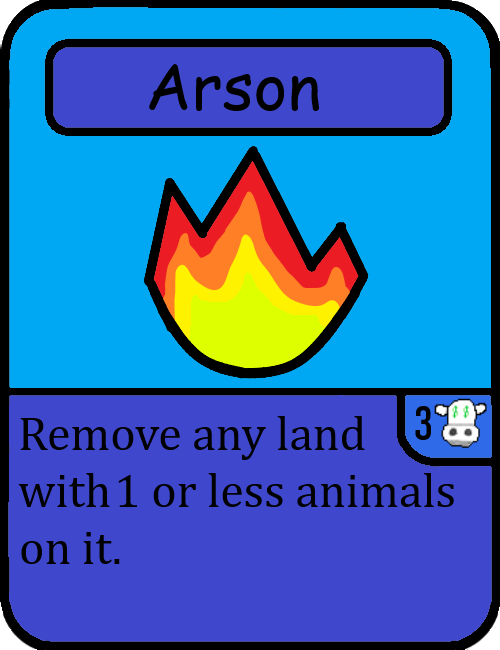
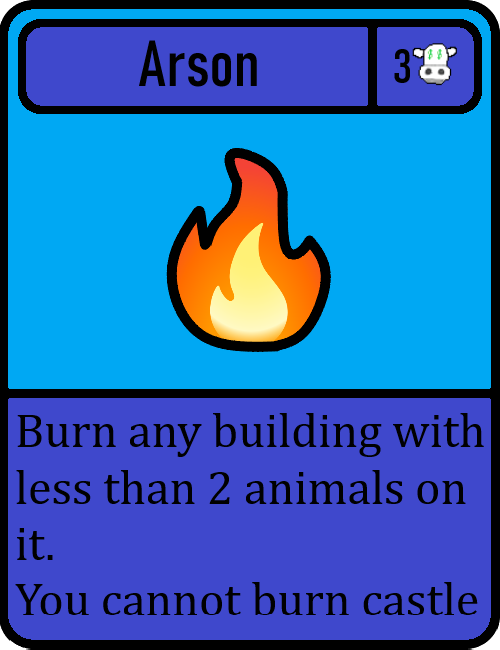
remade every single card ever its pretty great art! i think maybe also fixed the readme and added a trello board for future advancements and stuff

diff --git a/cows.py b/cows.py
@@ -5,7 +5,7 @@ from numpy import clip as clamp, log2
 from math import sqrt
 # noinspection PyUnresolvedReferences
 from pygamepopups import update_popups, handle_popup_events, RightClickMenu, RightClickOption, \
-    RightClickAbility, get_pause_menu
+    RightClickAbility, get_pause_menu, set_rcm_width
 from effects import CurrencyParticle, CircleParticle, play_sound_path, FakeCard
 from constants import *
 # noinspection PyUnresolvedReferences
@@ -77,7 +77,7 @@ class Hand:
             in_anim_sum = sum([cserp(self.in_anim.get(id(in_card), 0)) for in_card in self.cards])
             log_part = 1
             if not in_anim_sum == 0:
-                log_part = log2(in_anim_sum+1)
+                log_part = clamp(log2(in_anim_sum+1), 1, 18923)
             if log_part == 0:
                 log_part = 1
             x = surface.get_width()/2  # start at center
@@ -241,7 +241,6 @@ class Player:
         money_rectangle = pygame.Rect(player_info_rect.left, player_info_rect.top, box_width, box_height)
         pygame.draw.rect(surface, (0, 0, 0), expand_rect(money_rectangle, 4), border_radius=border_rounding)
         money_surf = pygame.Surface(money_rectangle.size)
-        money_surf.set_alpha(127)
         money_surf.fill((94, 252, 141))
         surface.blit(money_surf, money_rectangle.topleft)
 
@@ -255,7 +254,6 @@ class Player:
         milk_rectangle = pygame.Rect(player_info_rect.left+40+spacing_x, player_info_rect.top, box_width, box_height)
         pygame.draw.rect(surface, (0, 0, 0), expand_rect(milk_rectangle, 4), border_radius=border_rounding)
         milk_surf = pygame.Surface(milk_rectangle.size)
-        milk_surf.set_alpha(127)
         milk_surf.fill((163, 247, 255))
         surface.blit(milk_surf, milk_rectangle.topleft)
 
@@ -268,7 +266,6 @@ class Player:
         hay_rectangle = pygame.Rect(player_info_rect.left+(40+spacing_x)*2, player_info_rect.top, box_width, box_height)
         pygame.draw.rect(surface, (0, 0, 0), expand_rect(hay_rectangle, 4), border_radius=border_rounding)
         hay_surf = pygame.Surface(hay_rectangle.size)
-        hay_surf.set_alpha(127)
         hay_surf.fill((245, 230, 99))
         surface.blit(hay_surf, hay_rectangle.topleft)
 
@@ -289,6 +286,9 @@ class Player:
         new_coll = get_pause_menu().land_scrape_accuracy.selected_option
         if land_collision_accuracy != new_coll:
             set_land_coll_acc(new_coll)
+
+        # set the rcm width
+        set_rcm_width(get_pause_menu().rcm_width.selected_option)
 
         # hover cards in fake cards
         hand_card_image_name = None
@@ -354,10 +354,20 @@ class Player:
 
                 return newthing
 
-            # draw inhabitants (e.g. "+ Greenest Grass")
+            # add animal inhabitants
+            on_land: list[int] = []
+            if card_hover in self.field.cards:
+                for card_inhab in card_hover.get_residents():
+                    inhabitants.append(card_inhab)
+                    on_land.append(id(card_inhab))
+
+            # do inhabitants and equipments (naming is scuffed)
             if len(inhabitants) > 0:
                 for inhab_count, card_inhab in enumerate(inhabitants):
-                    card_type_text = fetch_text(f"+ {class_to_string(card_inhab)}", font)
+                    if id(card_inhab) in on_land:
+                        card_type_text = fetch_text(f"{class_to_string(card_inhab)} lives here", font)
+                    else:
+                        card_type_text = fetch_text(f"+ {class_to_string(card_inhab)}", font)
                     surface.blit(card_type_text,
                                  card_type_text.get_rect(
                                      midtop=_move_pos(hover_rect.midbottom, (0, 30*inhab_count+10))))
@@ -461,6 +471,7 @@ class Player:
                             if not remove_currency_if_has(card_field.cost_currency, card_field.cost_amount):
                                 self.field.cards.remove(card_field)
                                 self.hand.cards.insert(self.index_of_grab, card_field)
+                                add_popup("You don't have enough money")
                                 return True
                             card_field.was_on_field = True
                             play_sound_path(join("sounds", "cardfold.mp3"), 0.4)
@@ -539,9 +550,17 @@ class Player:
         for card in self.field.cards:
             if card.type in (INCANTATION_TYPE, EQUIPMENT_TYPE):
                 add_popup("This needs to go on a card"*(card.type == EQUIPMENT_TYPE) +
-                          "How did this happen?????"*(card.type == INCANTATION_TYPE))
+                          "How tf you do that?????"*(card.type == INCANTATION_TYPE))
                 camera_to_card(card)
                 return True
+
+        # overcrowding on lands:
+        for card in [_ for _ in self.field.cards if _.type == LAND_TYPE and _.was_on_field]:
+            if card.max_capacity is not None:
+                if len(card.get_residents()) > card.max_capacity:
+                    camera_to_card(card)
+                    add_popup("Too many animals on this land!")
+                    return True
 
         # animals without a home
         not_homeless_cards = []
@@ -864,6 +883,10 @@ class Card:
         # other
         self.is_cow = False
 
+        # inhabitant shenanies
+        self.max_capacity = None
+        self.multipliers = {}  # (ex: {Card: 2, Pig: 3} means that all cards are buffed x2 total, pigs are buffed x6 total)
+
     def mod_x(self):
         return self.x-get_local_player().camera.x
 
@@ -920,13 +943,14 @@ class Card:
             card = self
         residents = []
         if card.type != LAND_TYPE:
-            return residents
+            return []
         if not player.field.cards.__contains__(card):
-            raise TypeError(f"Object of type {card.type} cannot have residents")
+            raise TypeError(f"Card not found")
         for card_try in player.field.cards:
             social_distance = distance((card.x+150, card.y+162), (card_try.x+150, card_try.y+162))
             if social_distance < 500:
-                residents.append(card_try)
+                if card_try.type == ANIMAL_TYPE:
+                    residents.append(card_try)
         if residents.__contains__(card):
             residents.remove(card)
         return residents
@@ -949,6 +973,7 @@ class Card:
         rect_of_self.h += card_LOD*len(self.equipped)
         if rect_h is not None:
             rect_of_self.h = rect_h
+
         if event.type == pygame.MOUSEBUTTONDOWN:
             if event.button == 1:
                 if rect_of_self.collidepoint(pygame.mouse.get_pos()):
@@ -962,32 +987,8 @@ class Card:
             self.selected = False
         if event.type == pygame.MOUSEMOTION:
             if self.selected:
-                if self.type != LAND_TYPE or rel == (0, 0):
-                    self.y += rel[1]
-                    self.x += rel[0]
-                else:
-                    other_lands = [card for card in get_local_player().field.cards if card.type == LAND_TYPE]
-                    other_lands.remove(self)
-                    centers = [(land.x+125, land.y+162) for land in other_lands]
-                    def pyth_theorem(pos1, pos2): return sqrt((pos1[0]-pos2[0])**2+(pos1[1]-pos2[1])**2)
-                    for _ in range(land_collision_accuracy):
-                        self.x += rel[0]/land_collision_accuracy
-                        for center in centers:
-                            self_center = (self.x+125, self.y+162)
-                            while pyth_theorem(center, self_center) < 1000:
-                                self.x -= rel[0]/10
-                                self_center = (self.x+125, self.y+162)
-                                if pyth_theorem(center, self_center) > 1000:
-                                    break
-                        self.y += rel[1]/land_collision_accuracy
-                        for center in centers:
-                            self_center = (self.x+125, self.y+162)
-                            while pyth_theorem(center, self_center) < 1000:
-                                self.y -= rel[1]/10
-                                self_center = (self.x+125, self.y+162)
-                                if pyth_theorem(center, self_center) > 1000:
-                                    break
-
+                self.x += rel[0]
+                self.y += rel[1]
         return False
 
     def __str__(self):
@@ -1000,6 +1001,7 @@ class Castle(Card):
     def __init__(self, pos: Union[list[int], tuple[int, int]] = (100, 100)):
         super().__init__(pos)
         self.type = LAND_TYPE
+        self.max_capacity = 3
         # cost is free
 
     def handle_action(self, action: int) -> Union[list[Action, DelayedAction, InputAction], None]:
@@ -1020,7 +1022,7 @@ class Arson(Card):
 
 
 class GreenestGrass(Card):
-    image = "greenestgrass.png"
+    image = "greenest_grass.png"
 
     def __init__(self, pos: Union[list[int], tuple[int, int]] = (100, 100)):
         super().__init__(pos)
@@ -1033,20 +1035,20 @@ class GreenestGrass(Card):
 
 
 class KingCow(Card):
-    image = "kingcow.png"
+    image = "king_cow.png"
 
     def __init__(self, pos: Union[list[int], tuple[int, int]] = (100, 100)):
         super().__init__(pos)
         self.type = ANIMAL_TYPE
         self.is_cow = True
         # notice how the cost is free
-        self.abilities = [Ability(Action(self, SELF_GIVE_MONEY, SELF_COWS_ON_FIELD), 1, HAY_COUNTER, "Tax the poor"),
-                          Ability(DelayedAction(self, SELF_GIVE_HAY, 1, SELF_TURN_START), 2, HAY_COUNTER,
-                                  "Bribe the king")]
+        self.abilities = [Ability(Action(self, SELF_GIVE_DAIRY, SELF_COWS_ON_FIELD), 1, HAY_COUNTER, "Milk the poor"),
+                          Ability(DelayedAction(self, SELF_GIVE_HAY, 2, SELF_TURN_START), 2, HAY_COUNTER,
+                                  "Invest in the king")]
 
 
 class BlackBrie(Card):
-    image = "blackbrie.png"
+    image = "black_brie.png"
 
     def __init__(self, pos: Union[list[int], tuple[int, int]] = (100, 100)):
         super().__init__(pos)

diff --git a/pygamepopups.py b/pygamepopups.py
@@ -153,16 +153,17 @@ class RightClickMenu:  # there should only be one of these
         if self.shown:
             pygame.draw.rect(surface, (0, 0, 0), self.get_rect().inflate(2, 2))
             pygame.draw.rect(surface, (255, 255, 255), self.get_rect())
+            width = rcm_width
             for count, option in enumerate(self.options):
                 if isinstance(option, RightClickAbility):
                     if not option.can_pay_for_it:
-                        pygame.draw.rect(surface, (249, 57, 67), (self.x, self.y+count*self.font.get_height(), 200, self.font.get_height()))
-                if pygame.Rect((self.x, self.y+count*self.font.get_height(), 200, self.font.get_height()))\
+                        pygame.draw.rect(surface, (249, 57, 67), (self.x, self.y+count*self.font.get_height(), width, self.font.get_height()))
+                if pygame.Rect((self.x, self.y+count*self.font.get_height(), width, self.font.get_height()))\
                         .collidepoint(pygame.mouse.get_pos()):
-                    pygame.draw.rect(surface, (189, 189, 189), (self.x, self.y+count*self.font.get_height(), 200, self.font.get_height()))
+                    pygame.draw.rect(surface, (189, 189, 189), (self.x, self.y+count*self.font.get_height(), width, self.font.get_height()))
                     if isinstance(option, RightClickAbility):
                         if not option.can_pay_for_it:
-                            pygame.draw.rect(surface, (148, 39, 45), (self.x, self.y+count*self.font.get_height(), 200, self.font.get_height()))
+                            pygame.draw.rect(surface, (148, 39, 45), (self.x, self.y+count*self.font.get_height(), width, self.font.get_height()))
                 surface.blit(self.fetch_text(option.text), (self.x, self.y+count*self.font.get_height()))
 
 
@@ -172,6 +173,14 @@ pause_menu = None
 
 def get_pause_menu():
     return pause_menu
+
+
+def set_rcm_width(val: int):
+    global rcm_width
+    rcm_width = val
+
+
+rcm_width = 300
 
 
 class PauseMenu:
@@ -203,6 +212,11 @@ class PauseMenu:
         self.land_scrape_accuracy = MultipleChoice(setting.move(0, 100), self.pause_font, [2, 3, 10])
         self.land_scrape_accuracy.selected_option = 3
 
+        # rcm width
+        self.rcm_width_text = Text(word.move(0, 150), self.pause_font, "RMB menu width: ", "midleft", wrap_rect=True)
+        self.rcm_width = MultipleChoice(setting.move(0, 150), self.pause_font, [300, 350, 450])
+        self.rcm_width.selected_option = 300
+
         # set pause menu to self
         global pause_menu
         pause_menu = self
@@ -218,11 +232,14 @@ class PauseMenu:
             self.connection_interval.draw(surface)
             self.land_scrape_accuracy_text.draw(surface)
             self.land_scrape_accuracy.draw(surface)
+            self.rcm_width_text.draw(surface)
+            self.rcm_width.draw(surface)
 
             # draw dropdown
             self.hover_opacity.draw_select(surface)
             self.connection_interval.draw_select(surface)
             self.land_scrape_accuracy.draw_select(surface)
+            self.rcm_width.draw(surface)
 
     def get_rect(self) -> pygame.Rect:
         return pygame.Rect(self.center[0]-self.width/2, self.center[1]-self.height/2, self.width, self.height)
@@ -246,6 +263,8 @@ class PauseMenu:
                         if self.connection_interval.handle_events(event):
                             return True
                         if self.land_scrape_accuracy.handle_events(event):
+                            return True
+                        if self.rcm_width.handle_events(event):
                             return True
 
                         return True

diff --git a/README.md b/README.md
@@ -1,6 +1,7 @@
 # Castle Cows
 [![License: GPL v3](https://img.shields.io/badge/License-GPLv3-blue.svg)](https://www.gnu.org/licenses/gpl-3.0)
 [![lines of code](https://img.shields.io/tokei/lines/github/quasar098/castle-cows)](https://quasar098.github.io)
+[![trello board](https://img.shields.io/badge/todo%20board-trello-blue.svg)](https://trello.com/b/5BatIDc3/todo)
 
 ## How to play:
 Rulebook still unavailible. Will be put in game when the game is ready.
@@ -10,7 +11,7 @@ Its a fun game
 <br>Enjoy playing it I guess??
 
 ## Build Instructions:
-Install pyinstaller with pip using one of the following (different for diff. people)
+Install pyinstaller with pip using one of the following (may or may not work)
 ```
 python3 -m pip install PyInstaller
 py -m pip install PyInstaller
@@ -18,3 +19,8 @@ pip3 install PyInstaller
 ```
 Use pyinstaller to build all the py files
 <br>I have a batch script do it for me and will not include it here
+
+## Art disclaimer
+In some of the art, I got lazy and started using scaled up emojis.
+<br>These emojis are Microsoft emojis so if Microsoft is seeing this than pls dont sue me for using your emojis in my art.
+<br>Also I made all the art using Paint 3D (also microsofts)
